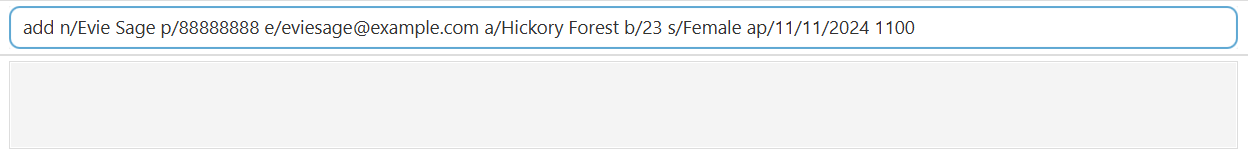
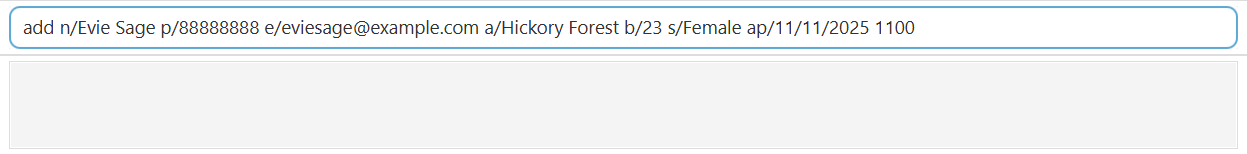
Update some outdated pngs

diff --git a/docs/UserGuide.md b/docs/UserGuide.md
@@ -122,7 +122,7 @@ Adds a person to the address book.
 **Examples**:
 * `add n/John Doe p/98765432 e/johnd@example.com a/John street, block 123, #01-01 b/40 s/Male`
 * `add n/Betsy Crowe t/friend e/betsycrowe@example.com a/Newgate Hospital p/12345678 t/patient b/20 s/Female`
-* `add n/Evie Sage p/88888888 e/eviesage@example.com a/Hickory Forest b/23 s/Female ap/11/11/2024 1100`
+* `add n/Evie Sage p/88888888 e/eviesage@example.com a/Hickory Forest b/23 s/Female ap/11/11/2025 1100`
 
 **Input**<br>
 
@@ -223,12 +223,6 @@ Edits an existing person in the address book.
 * Edits the person with the specified `NAME`. The name refers to the full name shown in the displayed person list.
 * At least one of the optional fields must be provided.
 * Existing values will be updated to the input values.
-* When editing tags/appointments, the existing tags/appointments of the person will be added i.e adding of tags is cumulative.
-* You can remove all the person’s tags by typing `t/` without
-    specifying any tags after it.
-* You can remove all the person’s future appointments by typing `ap/` without
-  specifying any appointments after it.
-* Currently, editing of specific tags and appointments are not possible. To work around this, you can clear their respective fields and add the new tags/appointments.
 
 <box type="tip" seamless>
 
@@ -236,7 +230,17 @@ Edits an existing person in the address book.
 
 - Fields in square brackets (e.g. `[ap/FUTURE APPOINTMENT]`) are optional.
 
-  </box>
+- Edited appointments are meant to be future appointments. If you would like to add previous appointments, please use the **Note command**.
+
+- When editing tags/appointments, the existing tags/appointments of the person will be added i.e adding of tags is cumulative.
+
+- You can remove all the person’s tags by typing `t/` without specifying any tags after it.
+
+- You can remove all the person’s future appointments by typing `ap/` without specifying any appointments after it.
+
+- Currently, editing of specific tags and appointments are not possible. To work around this, you can clear their respective fields and add the new tags/appointments.
+
+</box>
 
 **Examples**:
 *  `edit John Doe p/91234567 e/johndoe@example.com` Edits the phone number and email address of John Doe to be `91234567` and `johndoe@example.com` respectively.
